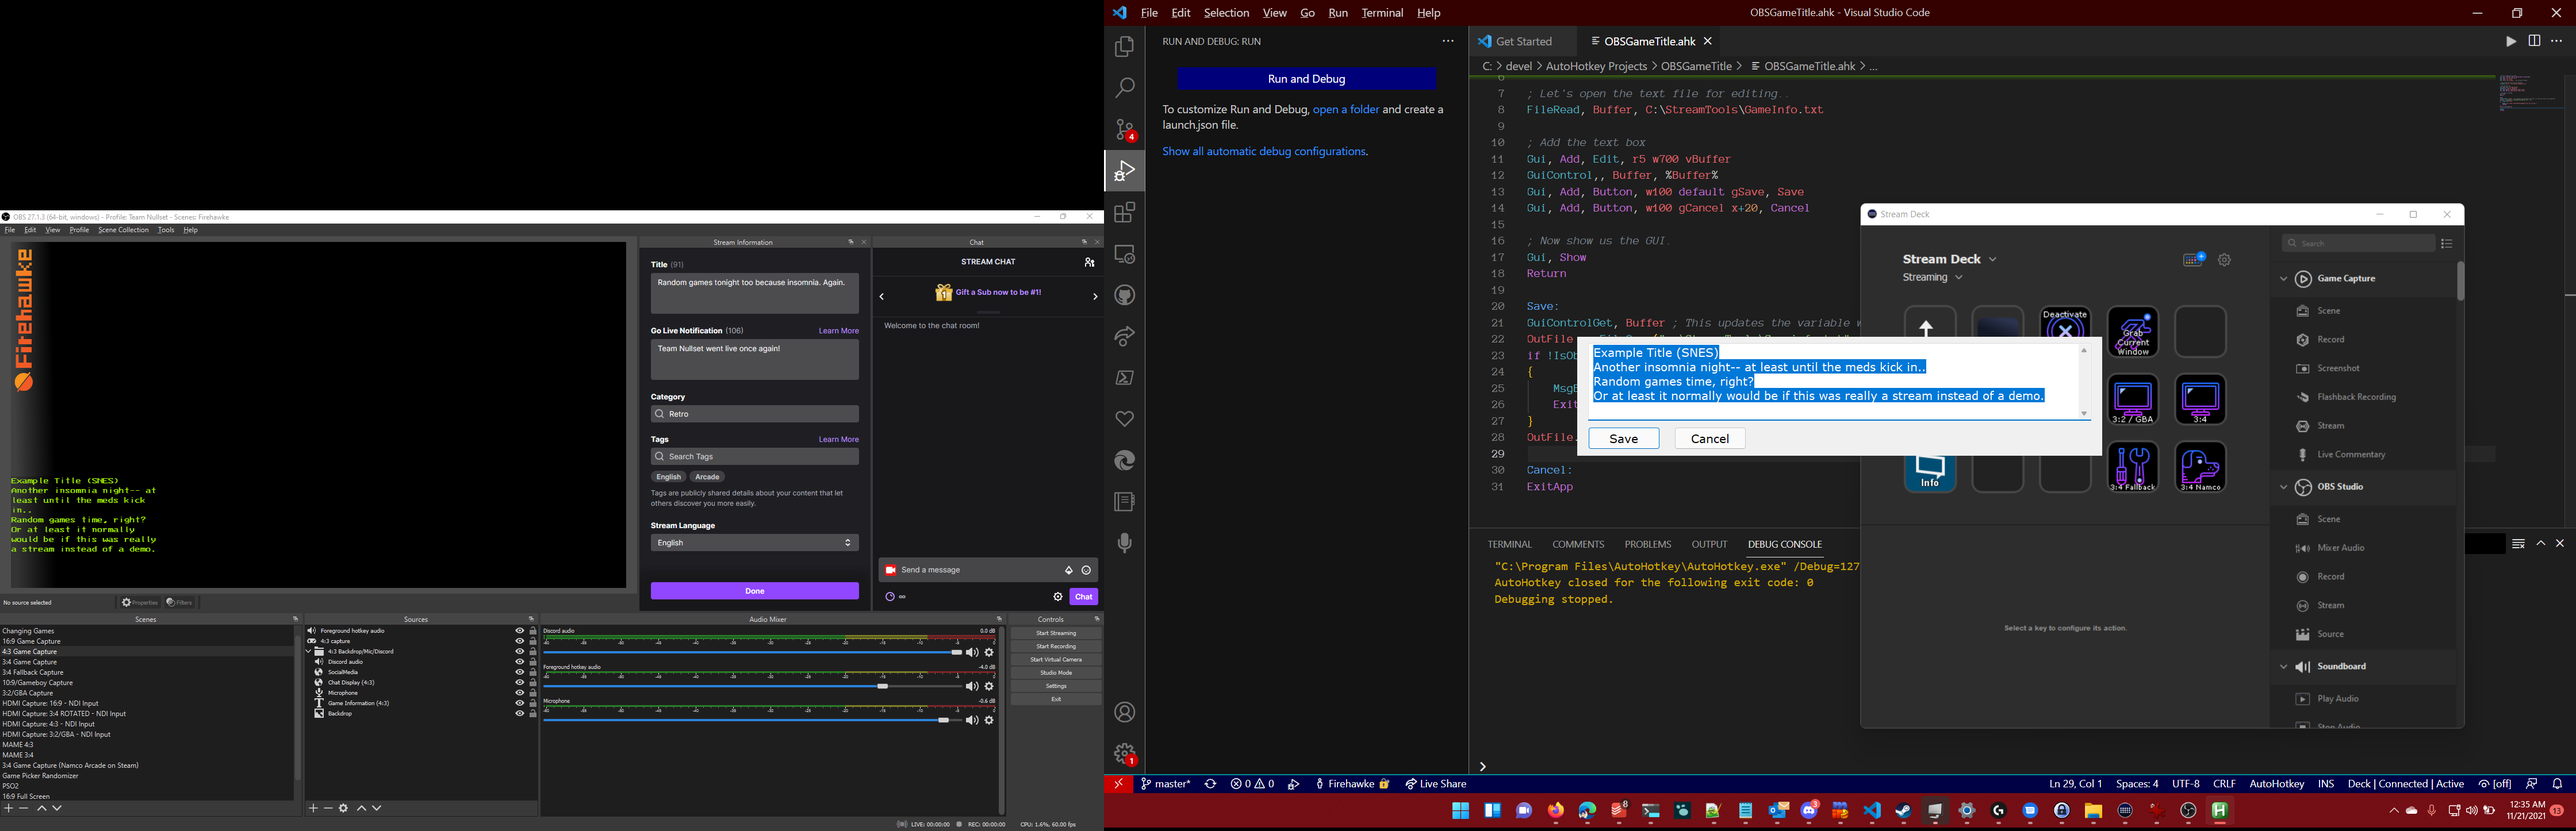
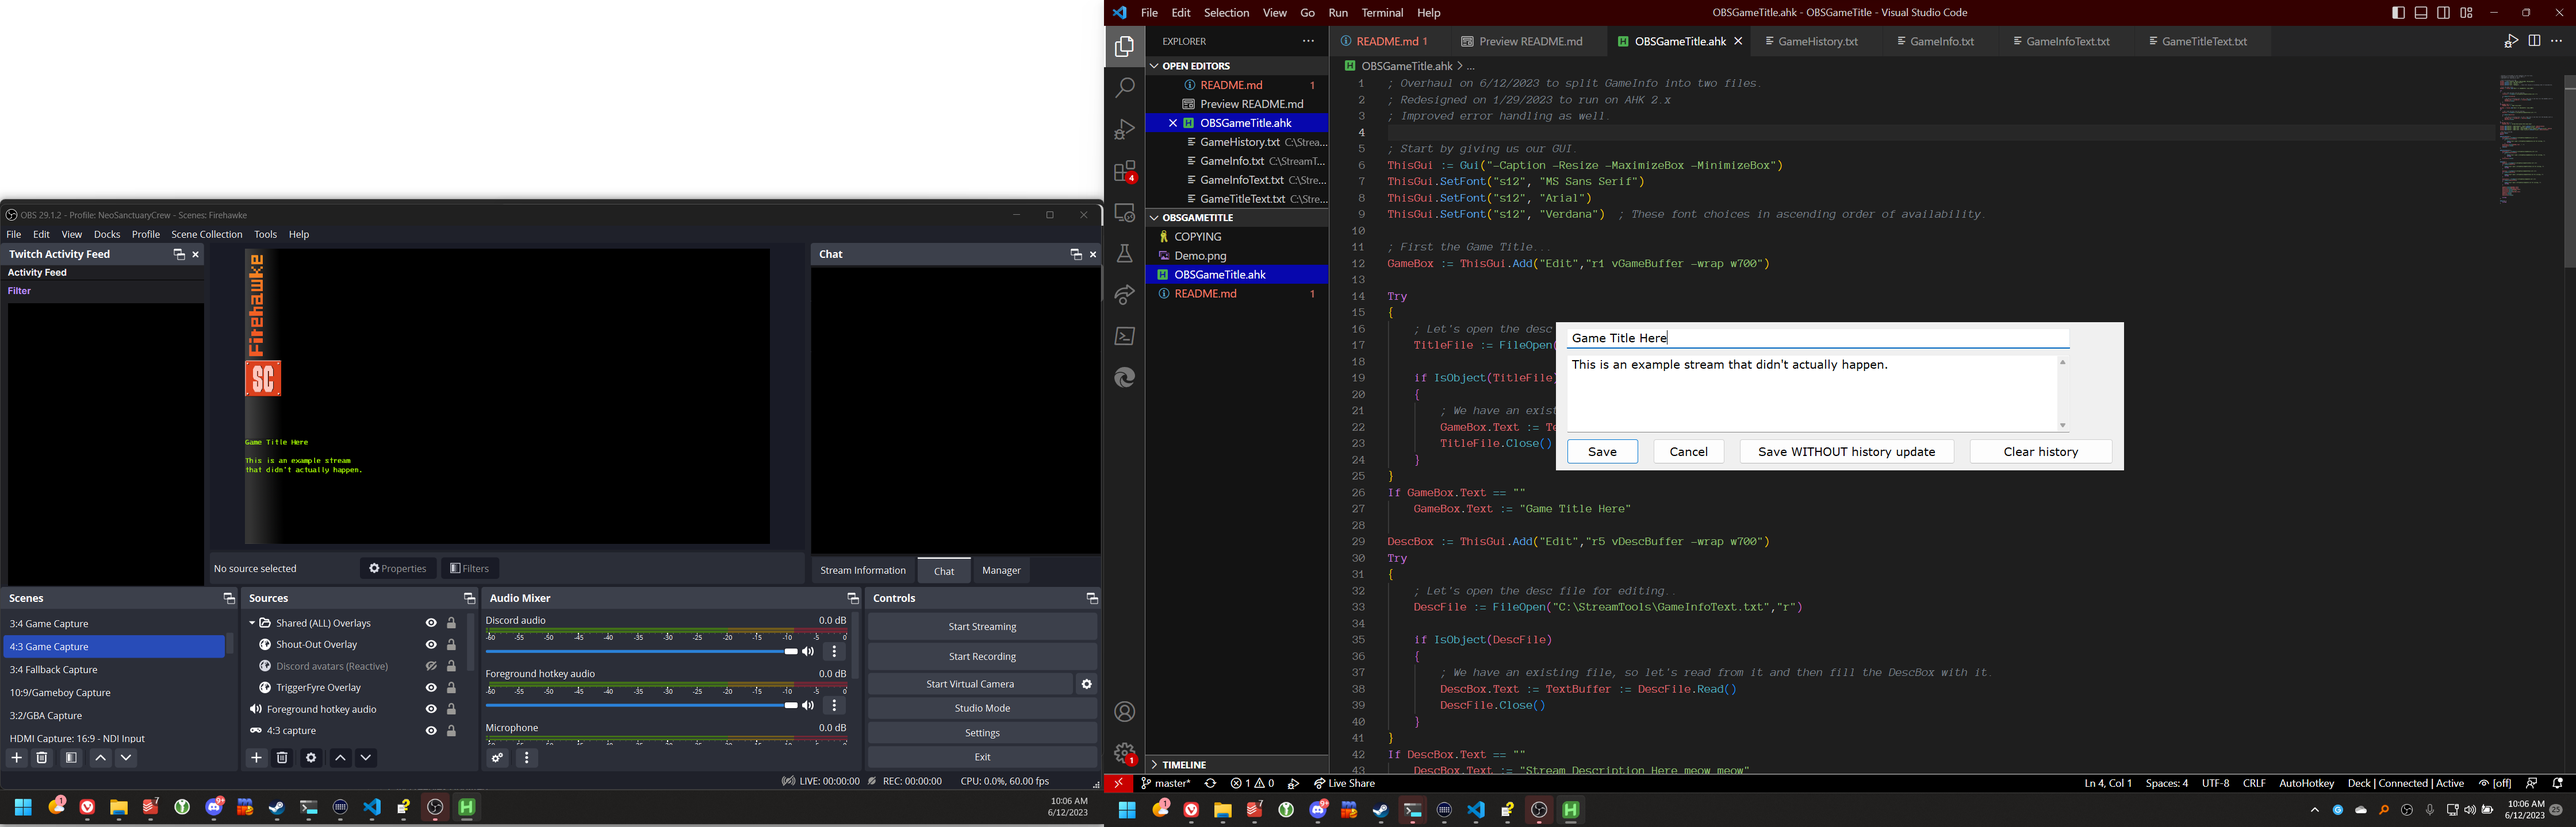
V2.1 adds history file, granular text files

diff --git a/README.md b/README.md
@@ -20,3 +20,14 @@ GPLv3. Why? It's a tiny script, doesn't do a whole lot. Really simple, anyone co
 ## Support
 
 Absolutely none. If you break this, you get to keep the pieces. The output file is hard-coded because I honestly believe I'm probably one of MAYBE 5 people in the entire world that might use this and those five people know enough to edit the source and compile one that does a bit more if that's what they want/need.
+
+## History
+
+Version 2.1 came out on June 12th, 2023, and it overhauled the output system to write to several files with different information depending on need:
+
+* ``C:\StreamTools\GameTitleText.txt`` contains just the game title text by itself.
+* ``C:\StreamTools\GameInfoText.txt`` contains just the stream information text (usually a description of the stream in progress)
+* ``C:\StreamTools\GameHistory.txt`` now contains a history of all games played this stream. You can clear it from the obviously labeled button. There is also a button for updating the text files WITHOUT updating the history-- this is used when you're not changing games but want to reformat the text slightly (e.g. it doesn't completely fit in the OBS text box)
+* ``C:\StreamTools\GameInfo.txt``, just as before, contains the sum of the GameTitleText and the GameInfoText in one file.
+
+Version 2.0 came out on January 29th, 2023 and was a rewrite of the original script to work with AHK 2.x.
